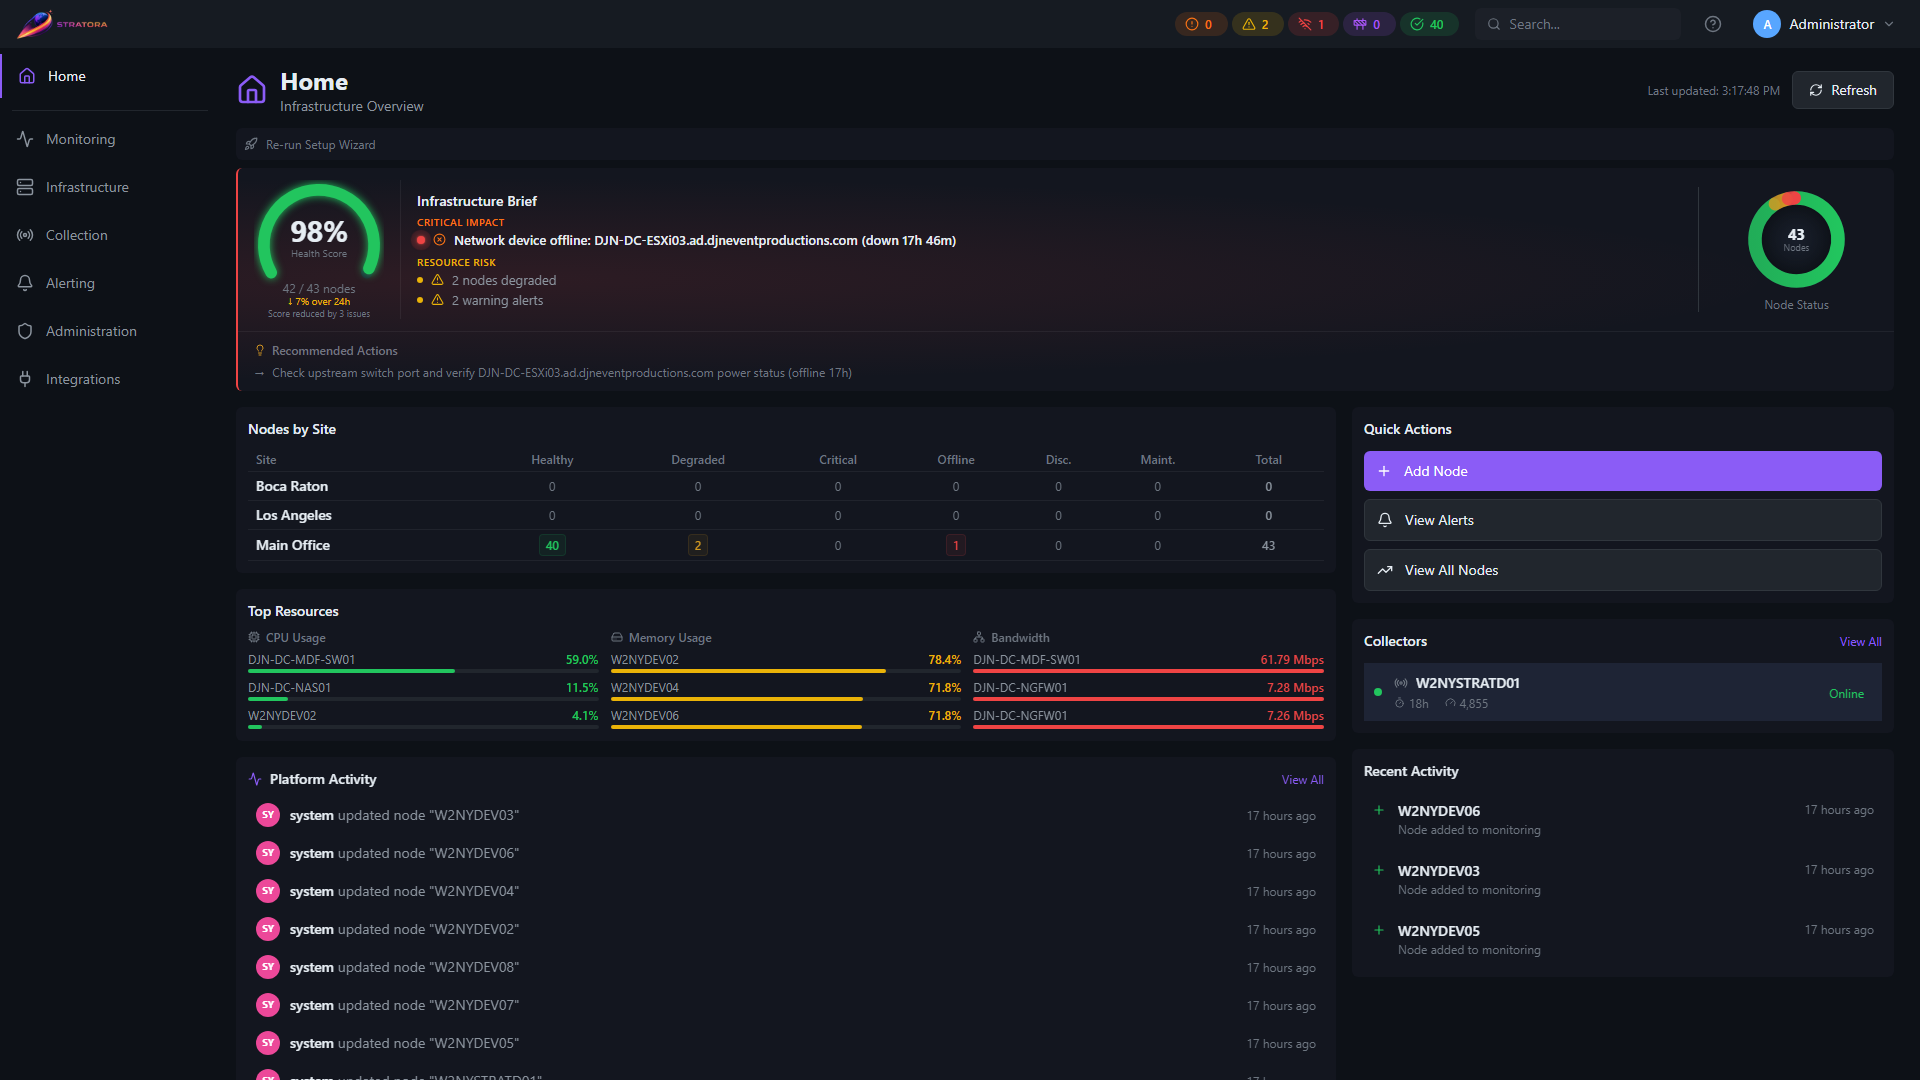
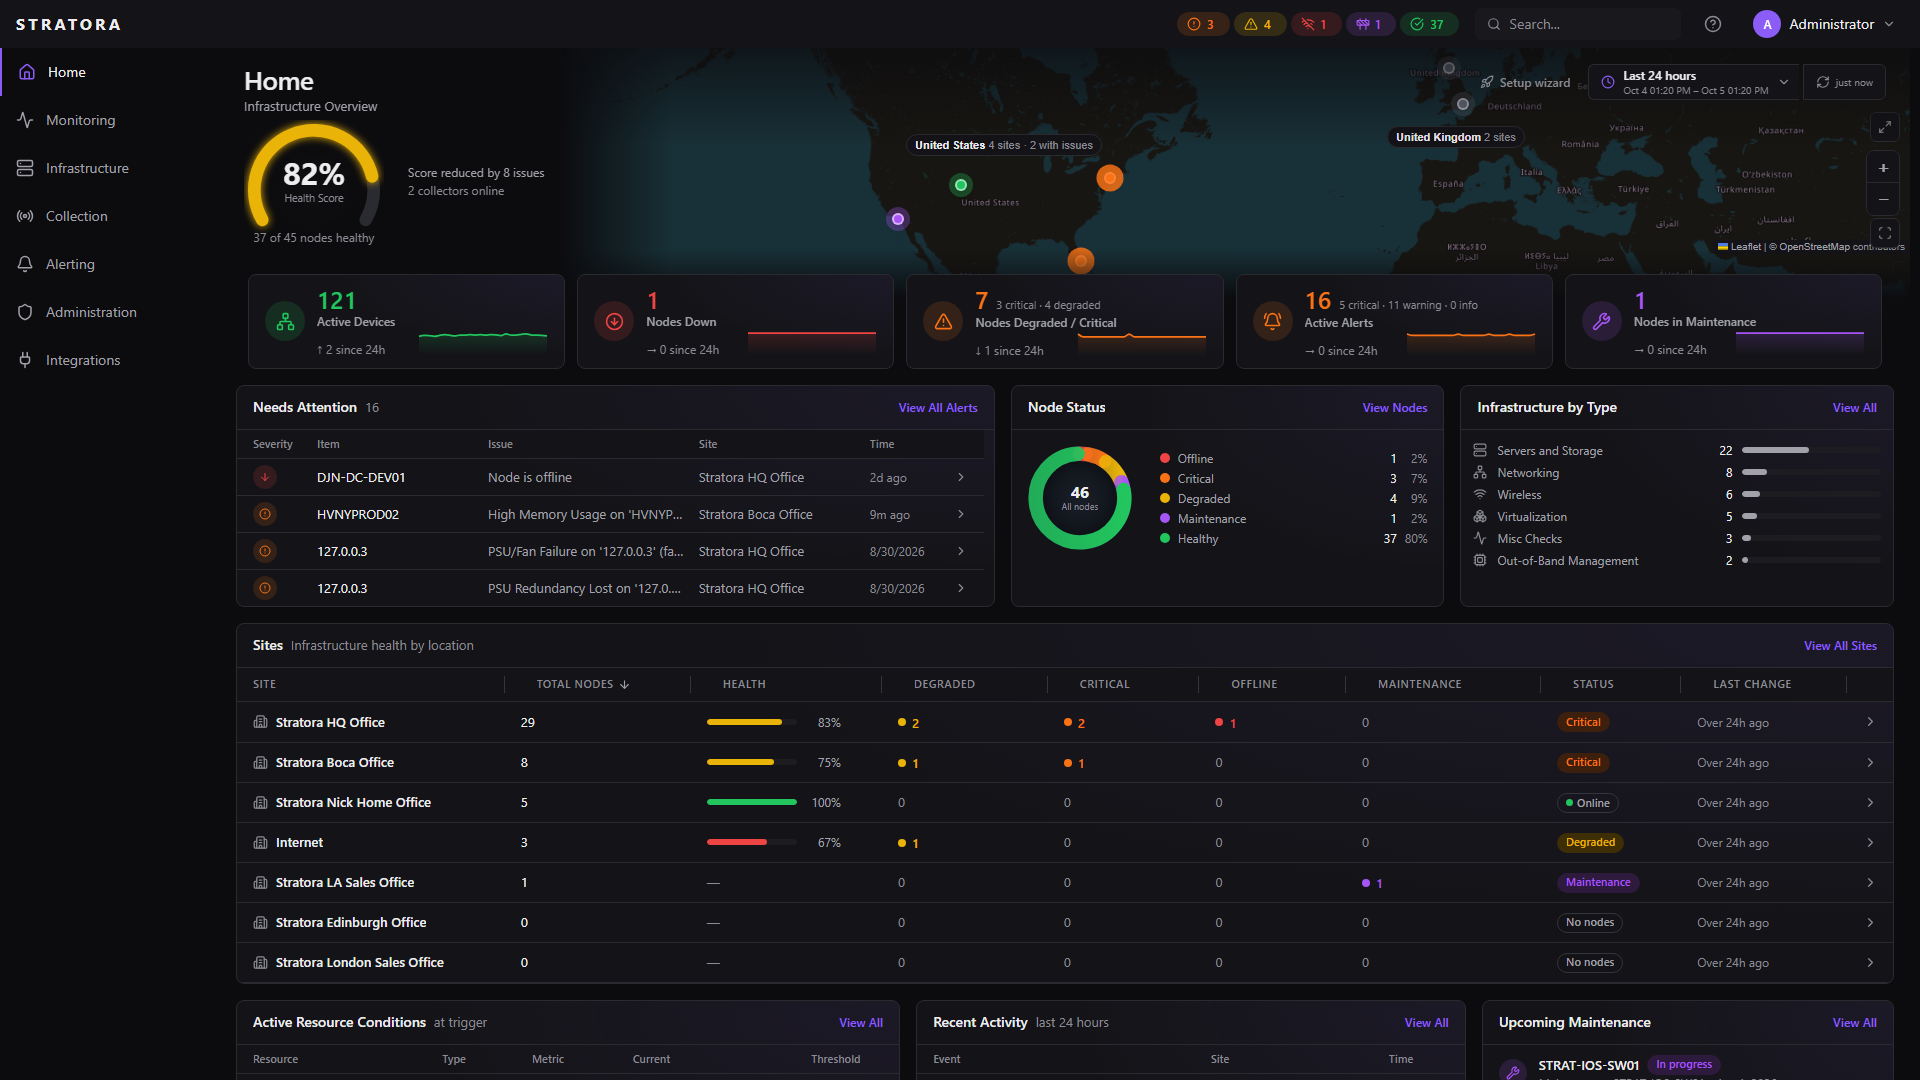
docs(home): rewrite for the redesigned 2.5.0 Home + 1080p screenshots

diff --git a/docs/monitoring/home.md b/docs/monitoring/home.md
@@ -10,83 +10,91 @@ The Home page is Stratora's daily-driver overview — the first surface you see 
 
 ## What's on the page
 
-![Stratora Home dashboard — Infrastructure Brief hero, Nodes by Site, Top Resources, Platform Activity, Collectors, and Quick Actions panels in a single overview](/img/monitoring/home-overview.png)
+![Stratora Home dashboard — Health Score gauge and world map hero, the Infrastructure KPI cards, and the Needs Attention, Node Status, Infrastructure by Type, and Sites panels](/img/monitoring/home-overview.png)
 
 ### Status counters (top bar)
 
-The status counters in the top bar — visible on every page in Stratora, not just Home — show how many monitored nodes are currently **Critical**, **Degraded**, **Offline**, **Maintenance**, and **Healthy**. The counters update on the same cadence as the rest of the page (~10 seconds). Click any counter to open the Nodes list filtered to that status — useful when you want to immediately see which devices are flagged.
+The status counters in the top bar — visible on every page in Stratora, not just Home — show how many monitored nodes are currently **Critical**, **Degraded**, **Offline**, **Maintenance**, and **Healthy**. They update on the same cadence as the rest of the page (~10 seconds). Click any counter to open the Nodes list filtered to that status.
 
-### Infrastructure Brief (hero card)
+### Health Score and the world map (hero)
 
-The hero card on the Home page is the **Infrastructure Brief** — a one-screen triage that combines:
+The hero combines the platform's **Health Score** gauge — the overall health percentage, with a one-line summary beneath it (for example, "37 of 45 nodes healthy," "Score reduced by 8 issues," and a link to how many collectors are online) — with a **world map** of your sites. Each site is plotted at its location and colored by its worst current status; zoom, pan, **Fit to sites**, and **Full screen** controls are on the map. See [Health score methodology](#health-score-methodology) below for how the percentage is calculated. A **time-range picker** and a manual refresh control sit at the top right, and a **Setup wizard** shortcut appears until setup is complete.
 
-- **The Health Score gauge** — the platform's overall health percentage. See [Health score methodology](#health-score-methodology) below for how it's calculated.
-- **The Node Status donut** — a proportional breakdown of nodes by health state (Healthy, Degraded, Critical, and Offline, plus Discovering or Maintenance when any nodes are in those states). Click a segment to jump to the matching nodes.
-- **Triage bullets** — short text callouts highlighting the most consequential issues right now (sites with the most critical nodes, the noisiest alerting categories, recent state changes).
+### Infrastructure KPIs
 
-If everything is healthy the brief reads "ALL CLEAR" and the gauge shows 100%. When that's not the case, the bullets tell you what to look at first.
+A row of KPI cards summarizes the deployment, each with a 24-hour sparkline and a since-24h delta, and each clickable into the matching filtered view:
 
-![Infrastructure Brief card — health score gauge on the left, a Node Status donut on the right showing nodes by health state, with triage bullets summarizing the most consequential issues](/img/monitoring/home-infrastructure-brief.png)
+- **Active Devices** — devices seen in the last 24 hours.
+- **Nodes Down** — nodes currently offline.
+- **Nodes Degraded / Critical** — with the critical-vs-degraded split.
+- **Active Alerts** — with the critical / warning / info split.
+- **Nodes in Maintenance** — nodes in an active maintenance window.
 
-### Recommended Actions
+![Infrastructure KPI cards — Active Devices, Nodes Down, Nodes Degraded / Critical, Active Alerts, and Nodes in Maintenance, each with a 24-hour sparkline and a since-24h delta](/img/monitoring/home-kpi-cards.png)
 
-When Stratora detects actionable items — pending agents waiting for approval, unbound IPAM subnets, a credential about to expire, a discovery job that finished and has importable devices — they surface in the **Recommended Actions** card. The card only appears when there are actions to recommend. Each item links straight to the relevant page in Stratora.
+### Needs Attention
 
-![Recommended Actions card — surfaces actionable items detected by Stratora with direct links to the relevant page](/img/monitoring/home-recommended-actions.png)
+The **Needs Attention** card lists the active alerts that most warrant a look — severity, the affected item, the issue, its site, and how long ago it fired — with a **View All Alerts** link into the full Alerts page. When Stratora detects actionable items (pending agents awaiting approval, unbound IPAM subnets, an expiring credential, a finished discovery job with importable devices), a **Recommended actions** list appears beneath the alerts with direct links to the relevant page.
 
-### Nodes by Site
+![Needs Attention card — a severity-ranked list of active alerts with item, issue, site, and time, plus a Recommended actions list](/img/monitoring/home-needs-attention.png)
 
-The **Nodes by Site** table breaks down node counts per site, columned by status (Healthy, Degraded, Critical, Offline, Discovering, Maintenance, Total). Click any site name to open its per-site dashboard with the same context preserved. Empty sites show zeros across the row — useful when you've defined a site but haven't imported any nodes yet.
+### Node Status
 
-![Nodes by Site table — per-site rollup with status columns (Healthy, Degraded, Critical, Offline, Discovering, Maintenance) and a Total column](/img/monitoring/home-nodes-by-site.png)
+The **Node Status** card shows a donut of all nodes broken down by health state — Healthy, Degraded, Critical, Offline, and Maintenance — with a legend giving the count and percentage for each. **View Nodes** opens the full Nodes list.
 
-### Top Resources
+![Node Status card — a donut of all nodes by health state with a legend showing count and percentage per state](/img/monitoring/home-node-status.png)
 
-The **Top Resources** card shows the three most utilized resources across the deployment: top **CPU Usage**, top **Memory Usage**, and top **Bandwidth**. Each column lists the top three nodes for that metric. Click any node to open its detail page.
+### Infrastructure by Type
 
-![Top Resources card — three columns side by side showing the most-utilized nodes by CPU, Memory, and Bandwidth](/img/monitoring/home-top-resources.png)
+The **Infrastructure by Type** card counts nodes by category — Servers and Storage, Networking, Wireless, Virtualization, Misc Checks, Out-of-Band Management — with a proportional bar for each, so you can see the shape of what you're monitoring at a glance.
 
-### Platform Activity
+![Infrastructure by Type card — node counts per category (Servers and Storage, Networking, Wireless, Virtualization, Misc Checks, Out-of-Band Management) with proportional bars](/img/monitoring/home-infrastructure-by-type.png)
 
-The **Platform Activity** card surfaces recent significant events from the audit log — node approvals, credential changes, alert acknowledgments, user actions. This is your at-a-glance record of "what's been happening on Stratora" without having to navigate to the full Audit Logs page. The full log lives at [Audit Logs](/docs/administration/audit-logs).
+### Sites
 
-![Platform Activity card — recent audit-log events including node approvals, credential changes, and user actions](/img/monitoring/home-platform-activity.png)
+The **Sites** card rolls infrastructure health up by location: total nodes, a health bar, per-status counts (Degraded, Critical, Offline, Maintenance), an overall status, and when the site last changed. Click any site row to open its per-site dashboard; **View All Sites** opens the Sites page. Sites with no nodes read "No nodes."
 
-### Quick Actions
+![Sites card — per-site rollup with total nodes, a health bar, per-status counts, overall status, and last-change time](/img/monitoring/home-sites.png)
 
-The **Quick Actions** card gives you single-click shortcuts to the most common workflows: Add Node, View Alerts, View All Nodes. Operators with limited daily Stratora use will reach for these.
+### Active Resource Conditions
 
-### Collectors
+The **Active Resource Conditions** card surfaces the resources currently **at trigger** — the node, its type, the metric, the current value, and the threshold it has crossed — each linking to the underlying alert. This often surfaces resource-saturation incidents faster than scanning the alert list.
 
-The **Collectors** card lists every registered [Collector](/docs/collection/collectors) with its name, status (Online / Offline / Stale), last heartbeat age, and current target count. Click any collector to open its detail view. Use this card to verify your collection fleet is healthy before relying on the metrics it produces.
-
-![Collectors card — registered collectors with name, status, last heartbeat age, and assigned target count](/img/monitoring/home-collectors.png)
+![Active Resource Conditions card — resources currently at trigger, showing node, type, metric, current value, and threshold](/img/monitoring/home-active-resource-conditions.png)
 
 ### Recent Activity
 
-The **Recent Activity** card mirrors Platform Activity but scopes to per-node events — recently-added nodes, recent status transitions, recent metric anomalies. Empty when there's been no recent change.
+The **Recent Activity** card is a running feed of the last 24 hours of alert activity — fires and resolutions — each with its site and time, linking to the alert. It's your at-a-glance record of what's been happening without leaving Home.
+
+![Recent Activity card — the last 24 hours of alert fires and resolutions with site and time](/img/monitoring/home-recent-activity.png)
+
+### Upcoming Maintenance
+
+The **Upcoming Maintenance** card lists maintenance windows that are in progress or scheduled, so planned work doesn't get mistaken for an incident. **View All** opens the Maintenance page.
+
+![Upcoming Maintenance card — in-progress and scheduled maintenance windows](/img/monitoring/home-upcoming-maintenance.png)
 
 ## Health score methodology
 
 The percentage shown in the Health Score gauge is a weighted aggregation across all monitored nodes:
 
-- Each node contributes a score based on its current health status: Healthy = 100%, Degraded = a partial credit, Critical / Offline = 0%, Discovering = neutral (excluded from the average), Maintenance = neutral.
+- Each node contributes a score based on its current health status: Healthy = 100%, Degraded = partial credit, Critical / Offline = 0%, Discovering = neutral (excluded from the average), Maintenance = neutral.
 - Sites are weighted by their node count — a 50-node site contributes more weight than a 5-node site.
 - The result is a single percentage that tracks the deployment's overall health day over day.
 
-The score is intended as a directional indicator, not a precise SLA metric. Use it to spot trend changes; use the per-node and per-site dashboards for incident-level detail.
+The score is a directional indicator, not a precise SLA metric. Use it to spot trend changes; use the per-node and per-site dashboards for incident-level detail.
 
 ## Common workflows from the Home page
 
-**Start your shift here.** A glance at the Infrastructure Brief tells you whether anything broke overnight. Recommended Actions tells you whether anything needs your attention before your first standup. Nodes by Site tells you which sites carry the current weight.
+**Start your shift here.** The Health Score and the KPI cards tell you whether anything broke overnight; Needs Attention tells you what to look at first; Sites tells you which locations carry the current weight.
 
-**Triage during an incident.** When the Critical counter ticks up, click it to jump to the affected nodes. The Top Resources card often surfaces resource-saturation incidents faster than the alert engine does — a CPU spike will show up in Top Resources before the threshold-based alert fires.
+**Triage during an incident.** When the Critical counter or the Nodes Degraded / Critical card ticks up, click through to the affected nodes. Active Resource Conditions often surfaces resource-saturation incidents the moment a metric crosses its threshold.
 
-**Wind down your shift.** Platform Activity gives you a quick read of what changed today — who approved which agents, who acknowledged which alerts, which credentials were touched. Useful for handoffs and post-incident reconstruction.
+**Wind down your shift.** Recent Activity gives you a quick read of what fired and resolved today — useful for handoffs and post-incident reconstruction — and Upcoming Maintenance shows what's planned next.
 
 ## Refresh cadence
 
-The Home page refreshes automatically every ~10 seconds. The **Refresh** button at the top forces an immediate refresh — useful when you want to see the effect of an action you just took (for example, after approving a pending agent).
+The Home page refreshes automatically every ~10 seconds, and the time-range picker scopes the KPI sparklines and activity feeds. The refresh control at the top right forces an immediate refresh — useful when you want to see the effect of an action you just took (for example, after approving a pending agent).
 
 ## See also
 
